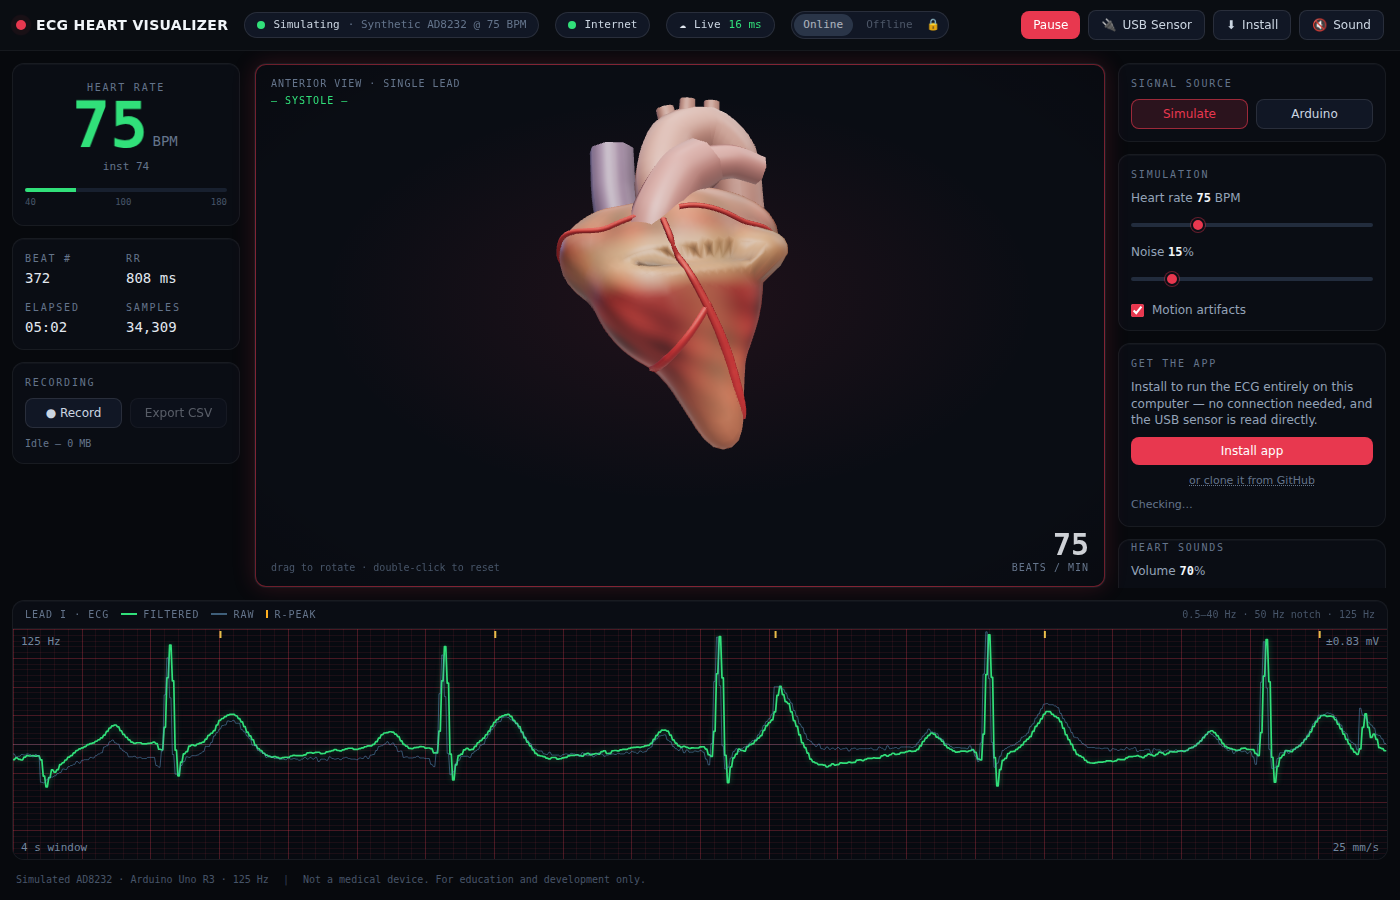
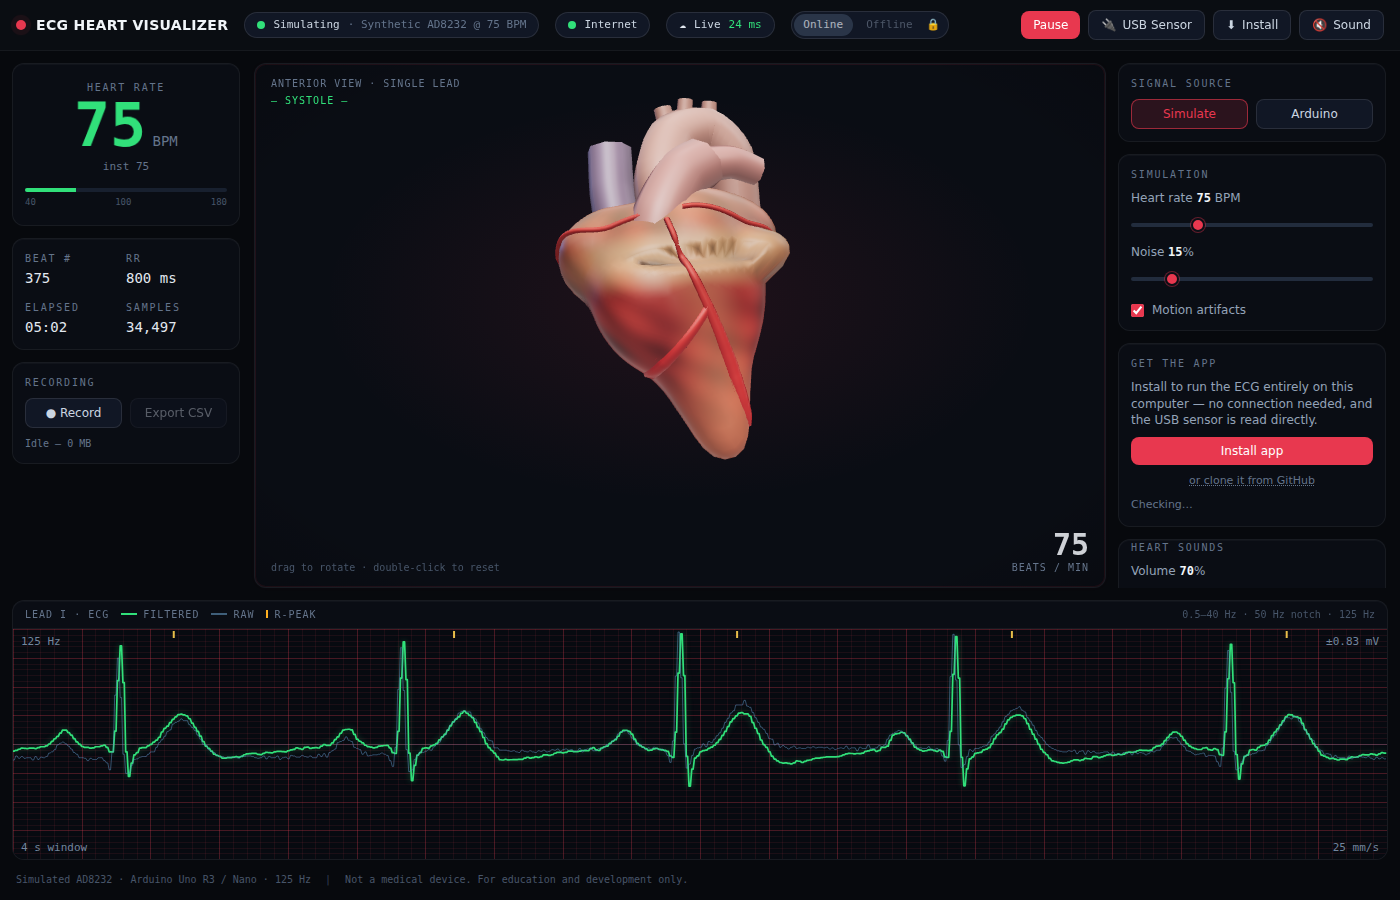
Footer says Uno / Nano, and stops hardcoding 1000 Hz in the markup
The static fallback in index.html read 1000 Hz until the first status frame
replaced it, which is a visibly wrong number on first paint. The board is a
Nano in practice and the sketch runs on either.

diff --git a/frontend/src/main.js b/frontend/src/main.js
@@ -229,7 +229,7 @@ function renderStatus(s) {
   if (s.mode === 'connected') {
     dom.footerSource.textContent = `AD8232 hardware · ${s.port} @ ${s.baud} baud · ${s.sample_rate} Hz`;
   } else if (s.mode === 'simulating') {
-    dom.footerSource.textContent = `Simulated AD8232 · Arduino Uno R3 · ${s.sample_rate} Hz`;
+    dom.footerSource.textContent = `Simulated AD8232 · Arduino Uno R3 / Nano · ${s.sample_rate} Hz`;
   }
 
   if (s.extra?.measured_rate_hz) {

diff --git a/frontend/index.html b/frontend/index.html
@@ -398,7 +398,7 @@
       </section>
 
       <footer class="shrink-0 px-4 pb-3 font-mono text-[10px] leading-relaxed text-slate-600">
-        <span id="footer-source">Simulated AD8232 · Arduino Uno R3 · 1000 Hz</span>
+        <span id="footer-source">Simulated AD8232 · Arduino Uno R3 / Nano</span>
         <span class="mx-2 text-slate-700">|</span>
         <span id="footer-hint">Not a medical device. For education and development only.</span>
       </footer>
